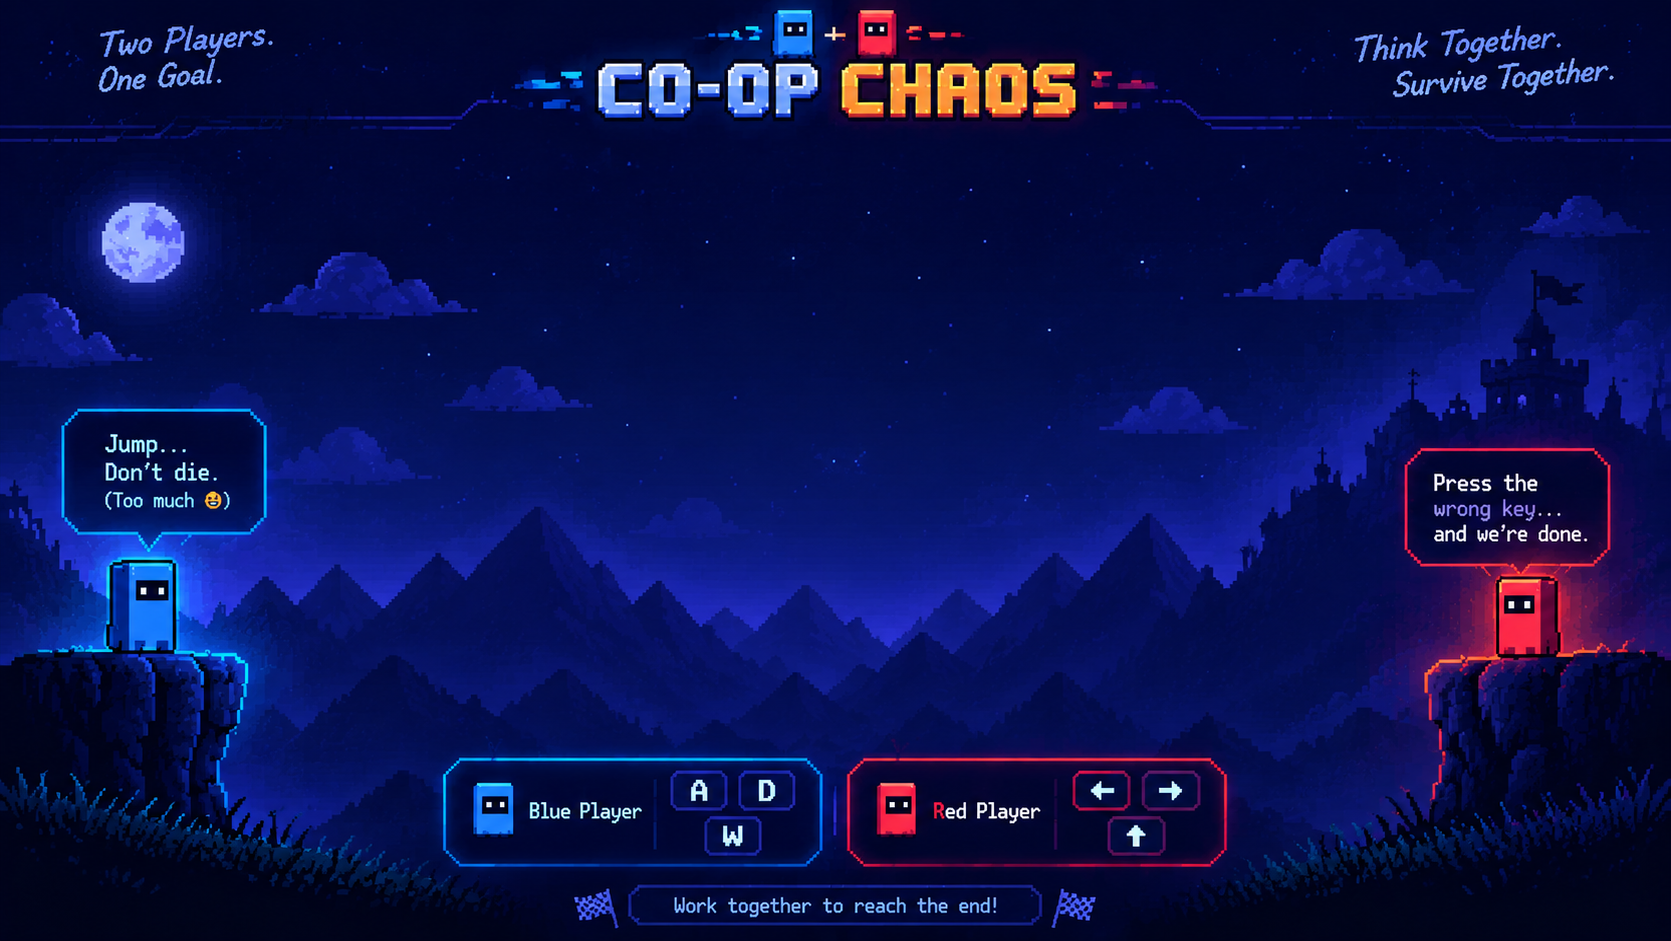
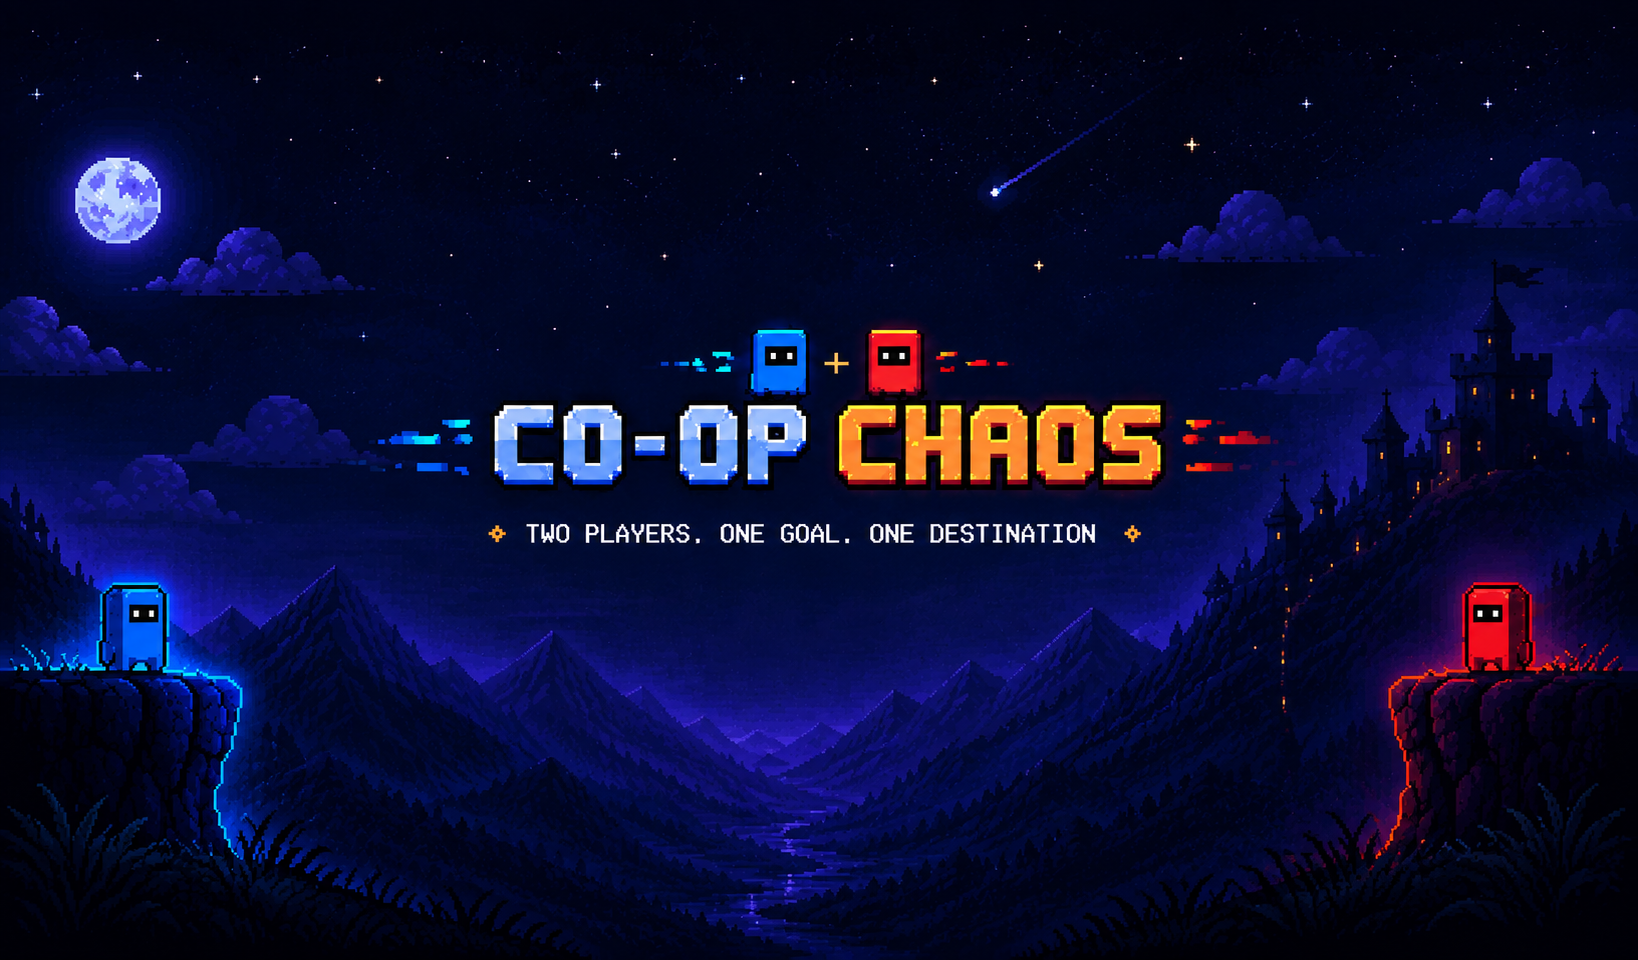
UI changes

diff --git a/src/game/scenes/Level2Scene.ts b/src/game/scenes/Level2Scene.ts
@@ -69,13 +69,6 @@ export class Level2Scene extends Phaser.Scene {
   private harmlessRightTriggered = false;
   private fakeSpikeMessageShown = false;
 
-  // Act 4 Non-freezing warning containers
-  private pitWarningContainer: Phaser.GameObjects.Container | null = null;
-  private pitWarningText: Phaser.GameObjects.Text | null = null;
-  private pitWarningBox: Phaser.GameObjects.Rectangle | null = null;
-  private pitWarningTriggered = false;
-  private justKiddingTriggered = false;
-
   constructor() {
     super("Level2");
   }
@@ -103,9 +96,6 @@ export class Level2Scene extends Phaser.Scene {
     this.fastRightSpikesActive = false;
     this.harmlessRightTriggered = false;
     this.fakeSpikeMessageShown = false;
-    this.pitWarningTriggered = false;
-    this.justKiddingTriggered = false;
-    this.pitWarningContainer = null;
     this.checkpointIndex = -1;
     this.chaserX = -9999;
     this.chaserHitbox = new Phaser.Geom.Rectangle(-9999, 0, TILE, px(LEVEL_2.height));
@@ -430,12 +420,6 @@ export class Level2Scene extends Phaser.Scene {
         fired: false,
         run: () => this.triggerHarmlessRightSpikes(),
       },
-      // PIT AHEAD warning 15 tiles away from exit (exit at x=113, so 113-15 = 98)
-      {
-        x: px(98),
-        fired: false,
-        run: () => this.triggerPitWarning(),
-      },
       // Collapsing Pit 3 at exit door (4 tiles wide at x: 112..115, user coord x: 3600.65)
       {
         x: 3570,
@@ -668,95 +652,6 @@ export class Level2Scene extends Phaser.Scene {
     });
   }
 
-  // ─── PIT AHEAD warning (15 tiles away from exit, 2 seconds freeze) ─────────
-
-  private triggerPitWarning() {
-    if (this.pitWarningTriggered || this.finished) return;
-    this.pitWarningTriggered = true;
-    this.isFrozen = true;
-
-    // Freeze player movement
-    this.players.forEach((p) => {
-      p.body_.setVelocity(0, 0);
-      p.body_.setAcceleration(0, 0);
-    });
-
-    sfx.buttonOn();
-
-    const cam = this.cameras.main;
-    const cx = cam.width / 2;
-    const cy = 70; // top center screen
-
-    this.pitWarningContainer = this.add.container(cx, cy).setScrollFactor(0).setDepth(200);
-
-    this.pitWarningBox = this.add
-      .rectangle(0, 0, 420, 56, 0x0d0f16, 0.95)
-      .setStrokeStyle(3, 0xff5a55);
-    this.pitWarningContainer.add(this.pitWarningBox);
-
-    this.pitWarningText = this.add
-      .text(0, 0, "⚠ PIT AHEAD", {
-        fontFamily: "monospace",
-        fontSize: "22px",
-        color: "#ff5a55",
-        align: "center",
-      })
-      .setOrigin(0.5);
-    this.pitWarningContainer.add(this.pitWarningText);
-
-    // After 2 seconds of PIT AHEAD: unfreeze scene and show "Just kidding. 😂"
-    this.time.delayedCall(2000, () => {
-      this.isFrozen = false;
-      this.triggerJustKidding();
-    });
-  }
-
-  // ─── Just Kidding warning ───────────────────────────────────────────────────
-
-  private triggerJustKidding() {
-    if (this.justKiddingTriggered || this.finished) return;
-    this.justKiddingTriggered = true;
-    sfx.save();
-
-    if (!this.pitWarningContainer) {
-      const cam = this.cameras.main;
-      const cx = cam.width / 2;
-      const cy = 70;
-      this.pitWarningContainer = this.add.container(cx, cy).setScrollFactor(0).setDepth(200);
-      this.pitWarningBox = this.add
-        .rectangle(0, 0, 420, 56, 0x0d0f16, 0.95)
-        .setStrokeStyle(3, 0x4aa3ff);
-      this.pitWarningContainer.add(this.pitWarningBox);
-      this.pitWarningText = this.add
-        .text(0, 0, "Just kidding. 😂", {
-          fontFamily: "monospace",
-          fontSize: "22px",
-          color: "#4aa3ff",
-          align: "center",
-        })
-        .setOrigin(0.5);
-      this.pitWarningContainer.add(this.pitWarningText);
-    } else if (this.pitWarningBox && this.pitWarningText) {
-      this.pitWarningBox.setStrokeStyle(3, 0x4aa3ff);
-      this.pitWarningText.setText("Just kidding. 😂").setColor("#4aa3ff");
-    }
-
-    this.time.delayedCall(1500, () => {
-      if (this.pitWarningContainer) {
-        this.tweens.add({
-          targets: this.pitWarningContainer,
-          alpha: 0,
-          scale: 0.8,
-          duration: 350,
-          onComplete: () => {
-            this.pitWarningContainer?.destroy();
-            this.pitWarningContainer = null;
-          },
-        });
-      }
-    });
-  }
-
   // ─── Shared death ────────────────────────────────────────────────────────────
 
   private triggerSharedDeath() {
@@ -774,12 +669,6 @@ export class Level2Scene extends Phaser.Scene {
     this.chaserSprites.forEach((sp) => sp.setVisible(false).setAlpha(0));
     this.fastRightSpikesActive = false;
     this.fastRightSprites.forEach((sp) => sp.setVisible(false).setAlpha(0));
-
-    // Destroy warning container if present
-    if (this.pitWarningContainer) {
-      this.pitWarningContainer.destroy();
-      this.pitWarningContainer = null;
-    }
 
     this.players.forEach((p) => {
       const sp = this.add.particles(p.x, p.y, TEX.spark, {

diff --git a/src/components/game/ControlsScreen.tsx b/src/components/game/ControlsScreen.tsx
@@ -1,77 +1,17 @@
 interface ControlsScreenProps {
-  onStart: (levelKey?: string) => void;
+  onStart: () => void;
 }
-
-const KEY = "inline-flex h-9 min-w-9 items-center justify-center rounded-md border-2 px-2 font-pixel text-[10px]";
 
 export function ControlsScreen({ onStart }: ControlsScreenProps) {
   return (
-    <div className="mx-auto flex w-full max-w-3xl flex-col items-center gap-10 rounded-lg border border-border bg-card/60 px-6 py-12 text-center backdrop-blur">
-      <div className="space-y-4">
-        <p className="font-pixel text-[10px] tracking-widest text-muted-foreground">
-          CO-OP PUZZLE PROTOTYPE
-        </p>
-        <h1 className="font-pixel text-2xl leading-relaxed text-foreground sm:text-3xl">
-          TWO BUTTONS,
-          <br />
-          ONE WAY OUT
-        </h1>
-        <p className="mx-auto max-w-md font-mono text-sm text-muted-foreground">
-          Select a level to play. Two players, one keyboard, about a minute underground.
-        </p>
-      </div>
-
-      <div className="grid w-full gap-6 sm:grid-cols-2">
-        <div className="rounded-lg border-2 border-player-blue/50 bg-player-blue/10 p-5">
-          <p className="font-pixel text-xs text-player-blue">PLAYER 1 — BLUE</p>
-          <div className="mt-5 flex flex-col items-center gap-2">
-            <span className={`${KEY} border-player-blue/60 text-player-blue`}>W</span>
-            <div className="flex gap-2">
-              <span className={`${KEY} border-player-blue/60 text-player-blue`}>A</span>
-              <span className={`${KEY} border-player-blue/60 text-player-blue`}>D</span>
-            </div>
-          </div>
-          <p className="mt-4 font-mono text-xs text-muted-foreground">move · jump</p>
-        </div>
-
-        <div className="rounded-lg border-2 border-player-red/50 bg-player-red/10 p-5">
-          <p className="font-pixel text-xs text-player-red">PLAYER 2 — RED</p>
-          <div className="mt-5 flex flex-col items-center gap-2">
-            <span className={`${KEY} border-player-red/60 text-player-red`}>↑</span>
-            <div className="flex gap-2">
-              <span className={`${KEY} border-player-red/60 text-player-red`}>←</span>
-              <span className={`${KEY} border-player-red/60 text-player-red`}>→</span>
-            </div>
-          </div>
-          <p className="mt-4 font-mono text-xs text-muted-foreground">move · jump</p>
-        </div>
-      </div>
-
-      <div className="flex flex-wrap justify-center gap-4">
-        <button
-          onClick={() => onStart("Level1")}
-          className="group relative inline-flex items-center gap-3 rounded-md bg-primary px-6 py-4 font-pixel text-xs text-primary-foreground transition-transform hover:-translate-y-0.5 active:translate-y-0"
-        >
-          START LEVEL 1
-          <span className="transition-transform group-hover:translate-x-1">▶</span>
-        </button>
-
-        <button
-          onClick={() => onStart("Level2")}
-          className="group relative inline-flex items-center gap-3 rounded-md border-2 border-primary bg-background px-6 py-4 font-pixel text-xs text-primary transition-transform hover:-translate-y-0.5 hover:bg-accent active:translate-y-0"
-        >
-          START LEVEL 2
-          <span className="transition-transform group-hover:translate-x-1">▶</span>
-        </button>
-
-        <button
-          onClick={() => onStart("Level3")}
-          className="group relative inline-flex items-center gap-3 rounded-md border-2 border-primary bg-background px-6 py-4 font-pixel text-xs text-primary transition-transform hover:-translate-y-0.5 hover:bg-accent active:translate-y-0"
-        >
-          START LEVEL 3
-          <span className="transition-transform group-hover:translate-x-1">▶</span>
-        </button>
-      </div>
+    <div className="flex items-center justify-center translate-y-23">
+      <button
+        onClick={onStart}
+        className="group relative inline-flex items-center gap-3 rounded-md bg-primary px-8 py-4 font-pixel text-sm sm:text-base text-primary-foreground shadow-[0_0_35px_-5px_var(--color-primary)] transition-all hover:scale-105 hover:shadow-[0_0_50px_var(--color-primary)] active:scale-95 cursor-pointer"
+      >
+        START GAME
+        <span className="transition-transform group-hover:translate-x-1.5">▶</span>
+      </button>
     </div>
   );
 }

diff --git a/src/components/game/GameCanvas.tsx b/src/components/game/GameCanvas.tsx
@@ -40,62 +40,14 @@ export function GameCanvas({ initialLevel = "Level1" }: GameCanvasProps) {
     };
   }, [initialLevel]);
 
-  const switchLevel = (levelKey: string) => {
-    if (!gameRef.current) return;
-    const sceneManager = gameRef.current.scene;
-    sceneManager.getScenes(true).forEach((s) => s.scene.stop());
-    sceneManager.start(levelKey);
-    setActiveLevel(levelKey);
-    setComplete(false);
-  };
-
   return (
-    <div className="relative w-full">
-      {/* Level Select Bar for Testing */}
-      <div className="mb-3 flex items-center justify-between gap-2 rounded-md border border-border bg-card/80 px-3 py-2">
-        <span className="font-pixel text-[10px] text-muted-foreground tracking-wider">
-          ⚙ LEVEL SELECT:
-        </span>
-        <div className="flex gap-2">
-          <button
-            onClick={() => switchLevel("Level1")}
-            className={`px-3 py-1 font-pixel text-xs rounded border transition-colors ${
-              activeLevel === "Level1"
-                ? "bg-primary text-primary-foreground border-primary"
-                : "bg-background text-muted-foreground border-border hover:bg-accent"
-            }`}
-          >
-            Level 1
-          </button>
-          <button
-            onClick={() => switchLevel("Level2")}
-            className={`px-3 py-1 font-pixel text-xs rounded border transition-colors ${
-              activeLevel === "Level2"
-                ? "bg-primary text-primary-foreground border-primary"
-                : "bg-background text-muted-foreground border-border hover:bg-accent"
-            }`}
-          >
-            Level 2
-          </button>
-          <button
-            onClick={() => switchLevel("Level3")}
-            className={`px-3 py-1 font-pixel text-xs rounded border transition-colors ${
-              activeLevel === "Level3"
-                ? "bg-primary text-primary-foreground border-primary"
-                : "bg-background text-muted-foreground border-border hover:bg-accent"
-            }`}
-          >
-            Level 3
-          </button>
-        </div>
-      </div>
-
+    <div className="relative flex w-full flex-col items-center justify-center">
       <div
         ref={hostRef}
-        className="mx-auto aspect-[16/9] w-full overflow-hidden rounded-lg border border-border bg-background shadow-[0_0_60px_-20px_var(--color-primary)]"
+        className="mx-auto aspect-[16/9] w-full max-w-[min(96vw,1440px)] max-h-[82vh] overflow-hidden rounded-xl border-2 border-border/80 bg-background shadow-[0_0_80px_-20px_var(--color-primary)] ring-1 ring-white/10"
         aria-label="Cooperative puzzle platformer game canvas"
       />
-      <p className="mt-3 text-center font-mono text-xs text-muted-foreground">
+      <p className="mt-3 text-center font-mono text-xs sm:text-sm text-muted-foreground">
         {complete
           ? `${activeLevel} cleared — thanks for playing!`
           : "Blue: A / D / W  ·  Red: ← / → / ↑  ·  Click the canvas to focus"}

diff --git a/src/game/entities/Player.ts b/src/game/entities/Player.ts
@@ -24,8 +24,6 @@ export class Player extends Phaser.Physics.Arcade.Sprite {
   private buffer = 0;
   private wasOnFloor = true;
   private squash = 1;
-  private prevX: number;
-  private logTimer = 500;
   /** Set by the scene when this player is stood on their partner's head. */
   standingOnPartner = false;
 
@@ -35,7 +33,6 @@ export class Player extends Phaser.Physics.Arcade.Sprite {
     this._input = input;
     this.spawnX = x;
     this.spawnY = y;
-    this.prevX = x;
 
     scene.add.existing(this);
     scene.physics.add.existing(this);
@@ -65,8 +62,6 @@ export class Player extends Phaser.Physics.Arcade.Sprite {
     this.body_.reset(this.spawnX, this.spawnY);
     this.body_.setVelocity(0, 0);
     this.body_.setAcceleration(0, 0);
-    this.prevX = this.spawnX;
-    this.logTimer = 500;
     this.coyote = 0;
     this.buffer = 0;
     this.wasOnFloor = true;
@@ -91,12 +86,6 @@ export class Player extends Phaser.Physics.Arcade.Sprite {
   }
 
   tick(deltaMs: number) {
-    this.logTimer += deltaMs;
-    if (this.x !== this.prevX && this.logTimer >= 500) {
-      console.log(`Player (${this.id}) x: ${this.x}`);
-      this.prevX = this.x;
-      this.logTimer = 0;
-    }
     const body = this.body_;
     const grounded = this.onFloor;
 

diff --git a/src/routes/index.tsx b/src/routes/index.tsx
@@ -22,15 +22,27 @@ export const Route = createFileRoute("/")({
 });
 
 function Index() {
-  const [startedLevel, setStartedLevel] = useState<string | null>(null);
+  const [started, setStarted] = useState(false);
 
   return (
-    <main className="flex min-h-screen flex-col items-center justify-center px-4 py-8 sm:py-12">
-      <div className="mx-auto w-full max-w-3xl md:max-w-4xl">
-        {startedLevel ? (
-          <GameCanvas initialLevel={startedLevel} />
+    <main
+      className={`relative flex min-h-screen flex-col items-center justify-center px-4 py-8 sm:py-12 ${!started
+          ? "bg-cover bg-center bg-no-repeat bg-fixed"
+          : "bg-background"
+        }`}
+      style={
+        !started
+          ? {
+            backgroundImage: "url('/background-image.png')",
+          }
+          : undefined
+      }
+    >
+      <div className="relative z-10 mx-auto w-full max-w-3xl md:max-w-4xl">
+        {started ? (
+          <GameCanvas />
         ) : (
-          <ControlsScreen onStart={(levelKey = "Level1") => setStartedLevel(levelKey)} />
+          <ControlsScreen onStart={() => setStarted(true)} />
         )}
       </div>
     </main>

diff --git a/src/styles.css b/src/styles.css
@@ -109,11 +109,6 @@
 
   body {
     background-color: #050814;
-    background-image: linear-gradient(rgba(0, 0, 0, 0.4), rgba(0, 0, 0, 0.4)), url('/background-image-game.png');
-    background-size: cover;
-    background-position: center;
-    background-repeat: no-repeat;
-    background-attachment: fixed;
     color: var(--color-foreground);
   }
 }
